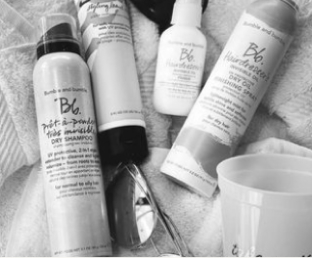
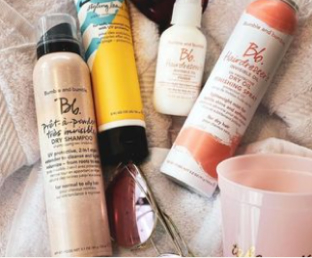
beauty product card in home UI

diff --git a/src/components/BeautyBrandsInHome/BeautyBrands.jsx b/src/components/BeautyBrandsInHome/BeautyBrands.jsx
@@ -1,4 +1,5 @@
 import React from "react";
+import BeautyProductCard from "./BeautyProductCard";
 
 const BeautyBrands = () => {
   return (
@@ -7,74 +8,10 @@ const BeautyBrands = () => {
         <div className="d-flex justify-content-center align-items-center p-4 flex-column">
           <p className=" number">YOUR NUMBER ONE SOURCE FOR UNIQUE BEAUTY BRANDS</p>
           <div className="d-flex justify-content-center align-items-center gap-3">
-            <div className="d-flex align-items-start flex-column">
-              <div className="bg-white d-flex  align-items-center" style={{ height: "202px", width: "260px" }}>
-                <img src="/images/image 20.jpg" className="mx-auto my-auto" alt="img" />
-              </div>
-              <div className="d-flex  flex-column">
-                <p className="mt-2 brandName">RMS Beauty</p>
-                <a href="#12" className="m-0 order">
-                  Order Now &nbsp;
-                  <svg xmlns="http://www.w3.org/2000/svg" width="14" height="8" viewBox="0 0 14 8" fill="none">
-                    <path
-                      d="M13 4L13.3825 3.67793L13.6537 4L13.3825 4.32207L13 4ZM1 4.5C0.723858 4.5 0.5 4.27614 0.5 4C0.5 3.72386 0.723858 3.5 1 3.5V4.5ZM10.8561 0.677932L13.3825 3.67793L12.6175 4.32207L10.0912 1.32207L10.8561 0.677932ZM13.3825 4.32207L10.8561 7.32207L10.0912 6.67793L12.6175 3.67793L13.3825 4.32207ZM13 4.5H1V3.5H13V4.5Z"
-                      fill="#58615A"
-                    />
-                  </svg>
-                </a>
-              </div>
-            </div>
-            <div className="d-flex align-items-start flex-column">
-              <div className="bg-white d-flex  align-items-center" style={{ height: "202px", width: "260px" }}>
-                <img src="/images/image 19.jpg" className="mx-auto my-auto" alt="img" />
-              </div>
-              <div className="d-flex  flex-column">
-                <p className="mt-2 brandName">Bobbi Brown</p>
-                <a href="#12" className="m-0 order">
-                  Order Now &nbsp;
-                  <svg xmlns="http://www.w3.org/2000/svg" width="14" height="8" viewBox="0 0 14 8" fill="none">
-                    <path
-                      d="M13 4L13.3825 3.67793L13.6537 4L13.3825 4.32207L13 4ZM1 4.5C0.723858 4.5 0.5 4.27614 0.5 4C0.5 3.72386 0.723858 3.5 1 3.5V4.5ZM10.8561 0.677932L13.3825 3.67793L12.6175 4.32207L10.0912 1.32207L10.8561 0.677932ZM13.3825 4.32207L10.8561 7.32207L10.0912 6.67793L12.6175 3.67793L13.3825 4.32207ZM13 4.5H1V3.5H13V4.5Z"
-                      fill="#58615A"
-                    />
-                  </svg>
-                </a>
-              </div>
-            </div>
-            <div className="d-flex align-items-start flex-column">
-              <div className="bg-white d-flex  align-items-center" style={{ height: "202px", width: "260px" }}>
-                <img src="/images/image 4.jpg" className="mx-auto my-auto" alt="img" />
-              </div>
-              <div className="d-flex  flex-column">
-                <p className="mt-2 brandName">Eve Lom</p>
-                <a href="#12" className="m-0 order">
-                  Order Now &nbsp;
-                  <svg xmlns="http://www.w3.org/2000/svg" width="14" height="8" viewBox="0 0 14 8" fill="none">
-                    <path
-                      d="M13 4L13.3825 3.67793L13.6537 4L13.3825 4.32207L13 4ZM1 4.5C0.723858 4.5 0.5 4.27614 0.5 4C0.5 3.72386 0.723858 3.5 1 3.5V4.5ZM10.8561 0.677932L13.3825 3.67793L12.6175 4.32207L10.0912 1.32207L10.8561 0.677932ZM13.3825 4.32207L10.8561 7.32207L10.0912 6.67793L12.6175 3.67793L13.3825 4.32207ZM13 4.5H1V3.5H13V4.5Z"
-                      fill="#58615A"
-                    />
-                  </svg>
-                </a>
-              </div>
-            </div>
-            <div className="d-flex align-items-start flex-column">
-              <div className="bg-white d-flex  align-items-center" style={{ height: "202px", width: "260px" }}>
-                <img src="/images/image 21.jpg" className="mx-auto my-auto" alt="img" />
-              </div>
-              <div className="d-flex  flex-column">
-                <p className="mt-2 brandName">ReVive</p>
-                <a href="#12" className="m-0 order">
-                  Order Now &nbsp;
-                  <svg xmlns="http://www.w3.org/2000/svg" width="14" height="8" viewBox="0 0 14 8" fill="none">
-                    <path
-                      d="M13 4L13.3825 3.67793L13.6537 4L13.3825 4.32207L13 4ZM1 4.5C0.723858 4.5 0.5 4.27614 0.5 4C0.5 3.72386 0.723858 3.5 1 3.5V4.5ZM10.8561 0.677932L13.3825 3.67793L12.6175 4.32207L10.0912 1.32207L10.8561 0.677932ZM13.3825 4.32207L10.8561 7.32207L10.0912 6.67793L12.6175 3.67793L13.3825 4.32207ZM13 4.5H1V3.5H13V4.5Z"
-                      fill="#58615A"
-                    />
-                  </svg>
-                </a>
-              </div>
-            </div>
+            <BeautyProductCard imageWithExtension="image 20.jpg" BrandName="RMS Beauty" />
+            <BeautyProductCard imageWithExtension="image 19.jpg" BrandName="Bobbi Brown" />
+            <BeautyProductCard imageWithExtension="image 4.jpg" BrandName="Eve Lom" />
+            <BeautyProductCard imageWithExtension="image 21.jpg" BrandName="ReVive" />
           </div>
         </div>
       </div>

diff --git a/src/components/Home/Dashboard.jsx b/src/components/Home/Dashboard.jsx
@@ -12,12 +12,17 @@ const Dashboard = () => {
             <div className="col-5 m-0">
               <div className="px-5 pt-4 pb-5 gap-4 d-flex flex-column">
                 <p className="m-0 p-0 merchant ">FOR merchants</p>
-                <p className="m-0 p-0 merchant" style={{ fontSize: "45px" }}>
-                  beauty
-                </p>
-                <p className="m-0 p-0 merchant text-capitalize" style={{ fontSize: "27px" }}>
-                  spot
-                </p>
+                <div>
+                  <p className="m-0 mt-5 p-0 merchant" style={{ fontSize: "45px", lineHeight: "25px" }}>
+                    beauty
+                  </p>
+                  <div className="d-flex m-0 p-0">
+                    <div style={{ height: "5.5px", backgroundColor: "rgba(75, 69, 64, 1)" , width:"106.5px", marginTop:"23px"}}></div>
+                    <p className="m-0 p-0 merchant text-capitalize" style={{ fontSize: "27px" }}>
+                      &nbsp;spot
+                    </p>
+                  </div>
+                </div>
                 <p className="m-0 p-0 welcome">Welcome to the Indian Queens Royal Digital Library and Education Center.</p>
                 <p className="m-0 p-0 establish">
                   We <span>&#39;</span> ve established this digital repository with the aim of providing effortless entry to knowledge, learning, and online assistance. Get ready to delve into our

diff --git a/src/components/BeautyBrandsInHome/BeautyProductCard.jsx b/src/components/BeautyBrandsInHome/BeautyProductCard.jsx
@@ -1,0 +1,27 @@
+import React from "react";
+
+const BeautyProductCard = ({ imageWithExtension, BrandName }) => {
+  return (
+    <>
+      <div className="d-flex align-items-start flex-column">
+        <div className="bg-white d-flex  align-items-center" style={{ height: "202px", width: "260px" }}>
+          <img src={`/images/${imageWithExtension}`} className="mx-auto my-auto" alt="img" />
+        </div>
+        <div className="d-flex  flex-column">
+          <p className="mt-2 brandName">{BrandName}</p>
+          <a href="#12" className="m-0 order">
+            Order Now &nbsp;
+            <svg xmlns="http://www.w3.org/2000/svg" width="14" height="8" viewBox="0 0 14 8" fill="none">
+              <path
+                d="M13 4L13.3825 3.67793L13.6537 4L13.3825 4.32207L13 4ZM1 4.5C0.723858 4.5 0.5 4.27614 0.5 4C0.5 3.72386 0.723858 3.5 1 3.5V4.5ZM10.8561 0.677932L13.3825 3.67793L12.6175 4.32207L10.0912 1.32207L10.8561 0.677932ZM13.3825 4.32207L10.8561 7.32207L10.0912 6.67793L12.6175 3.67793L13.3825 4.32207ZM13 4.5H1V3.5H13V4.5Z"
+                fill="#58615A"
+              />
+            </svg>
+          </a>
+        </div>
+      </div>
+    </>
+  );
+};
+
+export default BeautyProductCard;

diff --git a/src/App.js b/src/App.js
@@ -1,14 +1,16 @@
 import "./App.css";
 import Header from "./components/Header/Header";
 import "../node_modules/bootstrap/dist/js/bootstrap";
-import Dashboard from "./components/Home/Dashboard";
+// import Dashboard from "./components/Home/Dashboard";
 import Footer from "./components/Footer/Footer";
+import Brands from "./components/Brands/Brands";
 function App() {
   return (
     <>
       <Header />
-      <Dashboard/>
-      <Footer/>
+      {/* <Dashboard/> */}
+      <Brands />
+      <Footer />
     </>
   );
 }

diff --git a/src/components/Brands/Brands.jsx b/src/components/Brands/Brands.jsx
@@ -1,0 +1,18 @@
+import React from "react";
+import "../Home/dashboard.css";
+
+const Brands = () => {
+  return (
+    <>
+      <div className="container m-0 p-0 bg_paleYellow">
+        <div className="row p-0 m-0">
+          <div className="d-flex flex-column justify-content-center">
+            <p className="number m-4">Below are the Brands available with “Beauty Fashions Sales Group”</p>
+          </div>
+        </div>
+      </div>
+    </>
+  );
+};
+
+export default Brands;

diff --git a/src/components/Home/dashboard.css b/src/components/Home/dashboard.css
@@ -87,3 +87,14 @@
   font-size: 25px;
   font-weight: 300;
 }
+
+img:hover {
+  -webkit-filter: grayscale(0%);
+  filter: grayscale(0%);
+  /* filter: hue-rotate(20deg); */
+  transition: filter 2ms;
+}
+img {
+  cursor: pointer;
+  filter: grayscale(100%);
+}

diff --git a/src/components/Brands/BrandsCard.jsx b/src/components/Brands/BrandsCard.jsx
@@ -1,0 +1,9 @@
+import React from 'react'
+
+const BrandsCard = () => {
+  return (
+    <div>BrandsCard</div>
+  )
+}
+
+export default BrandsCard
